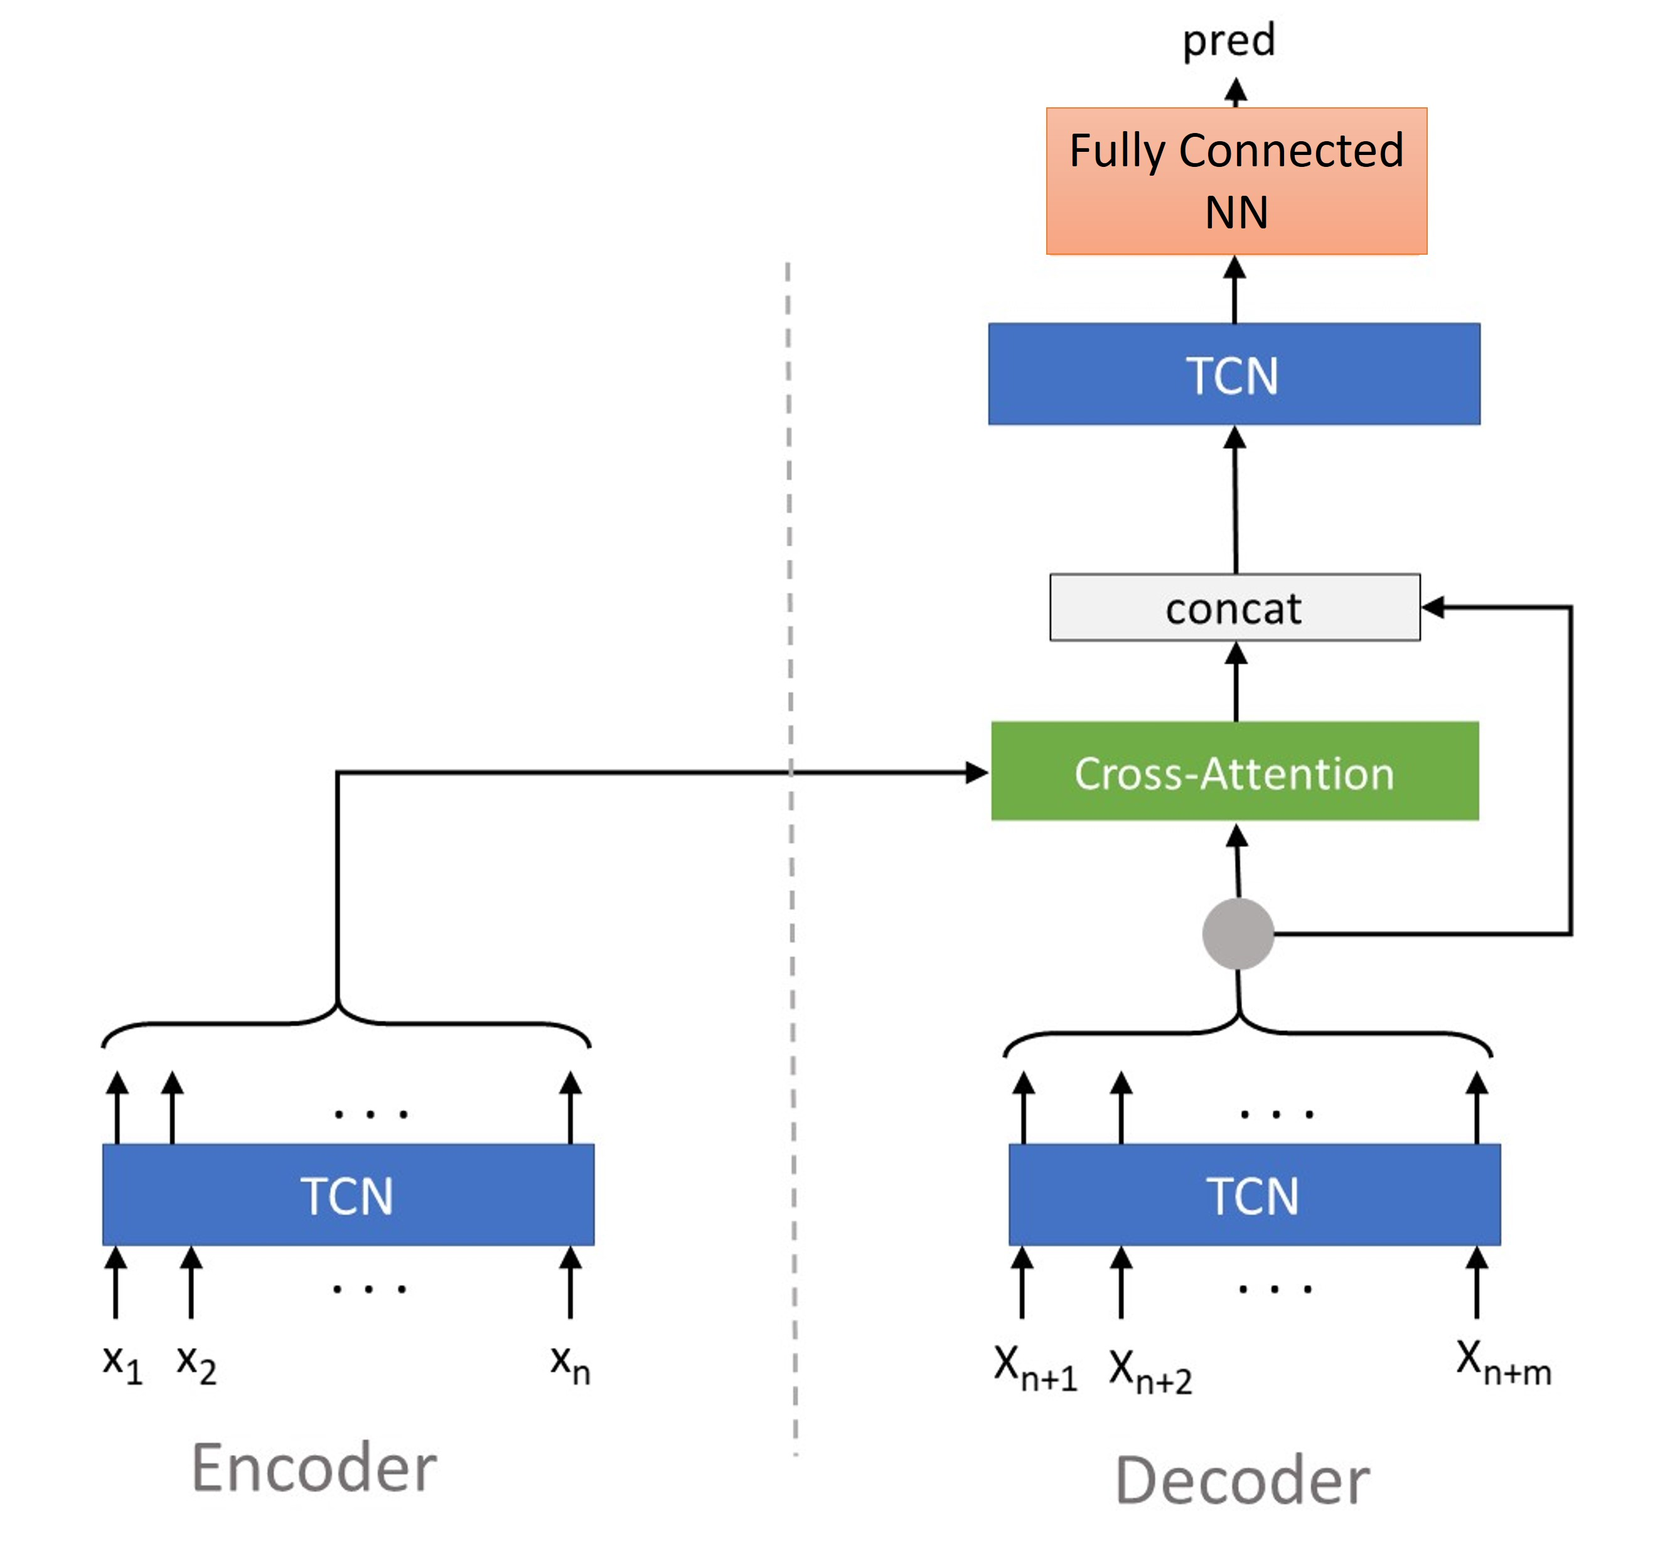
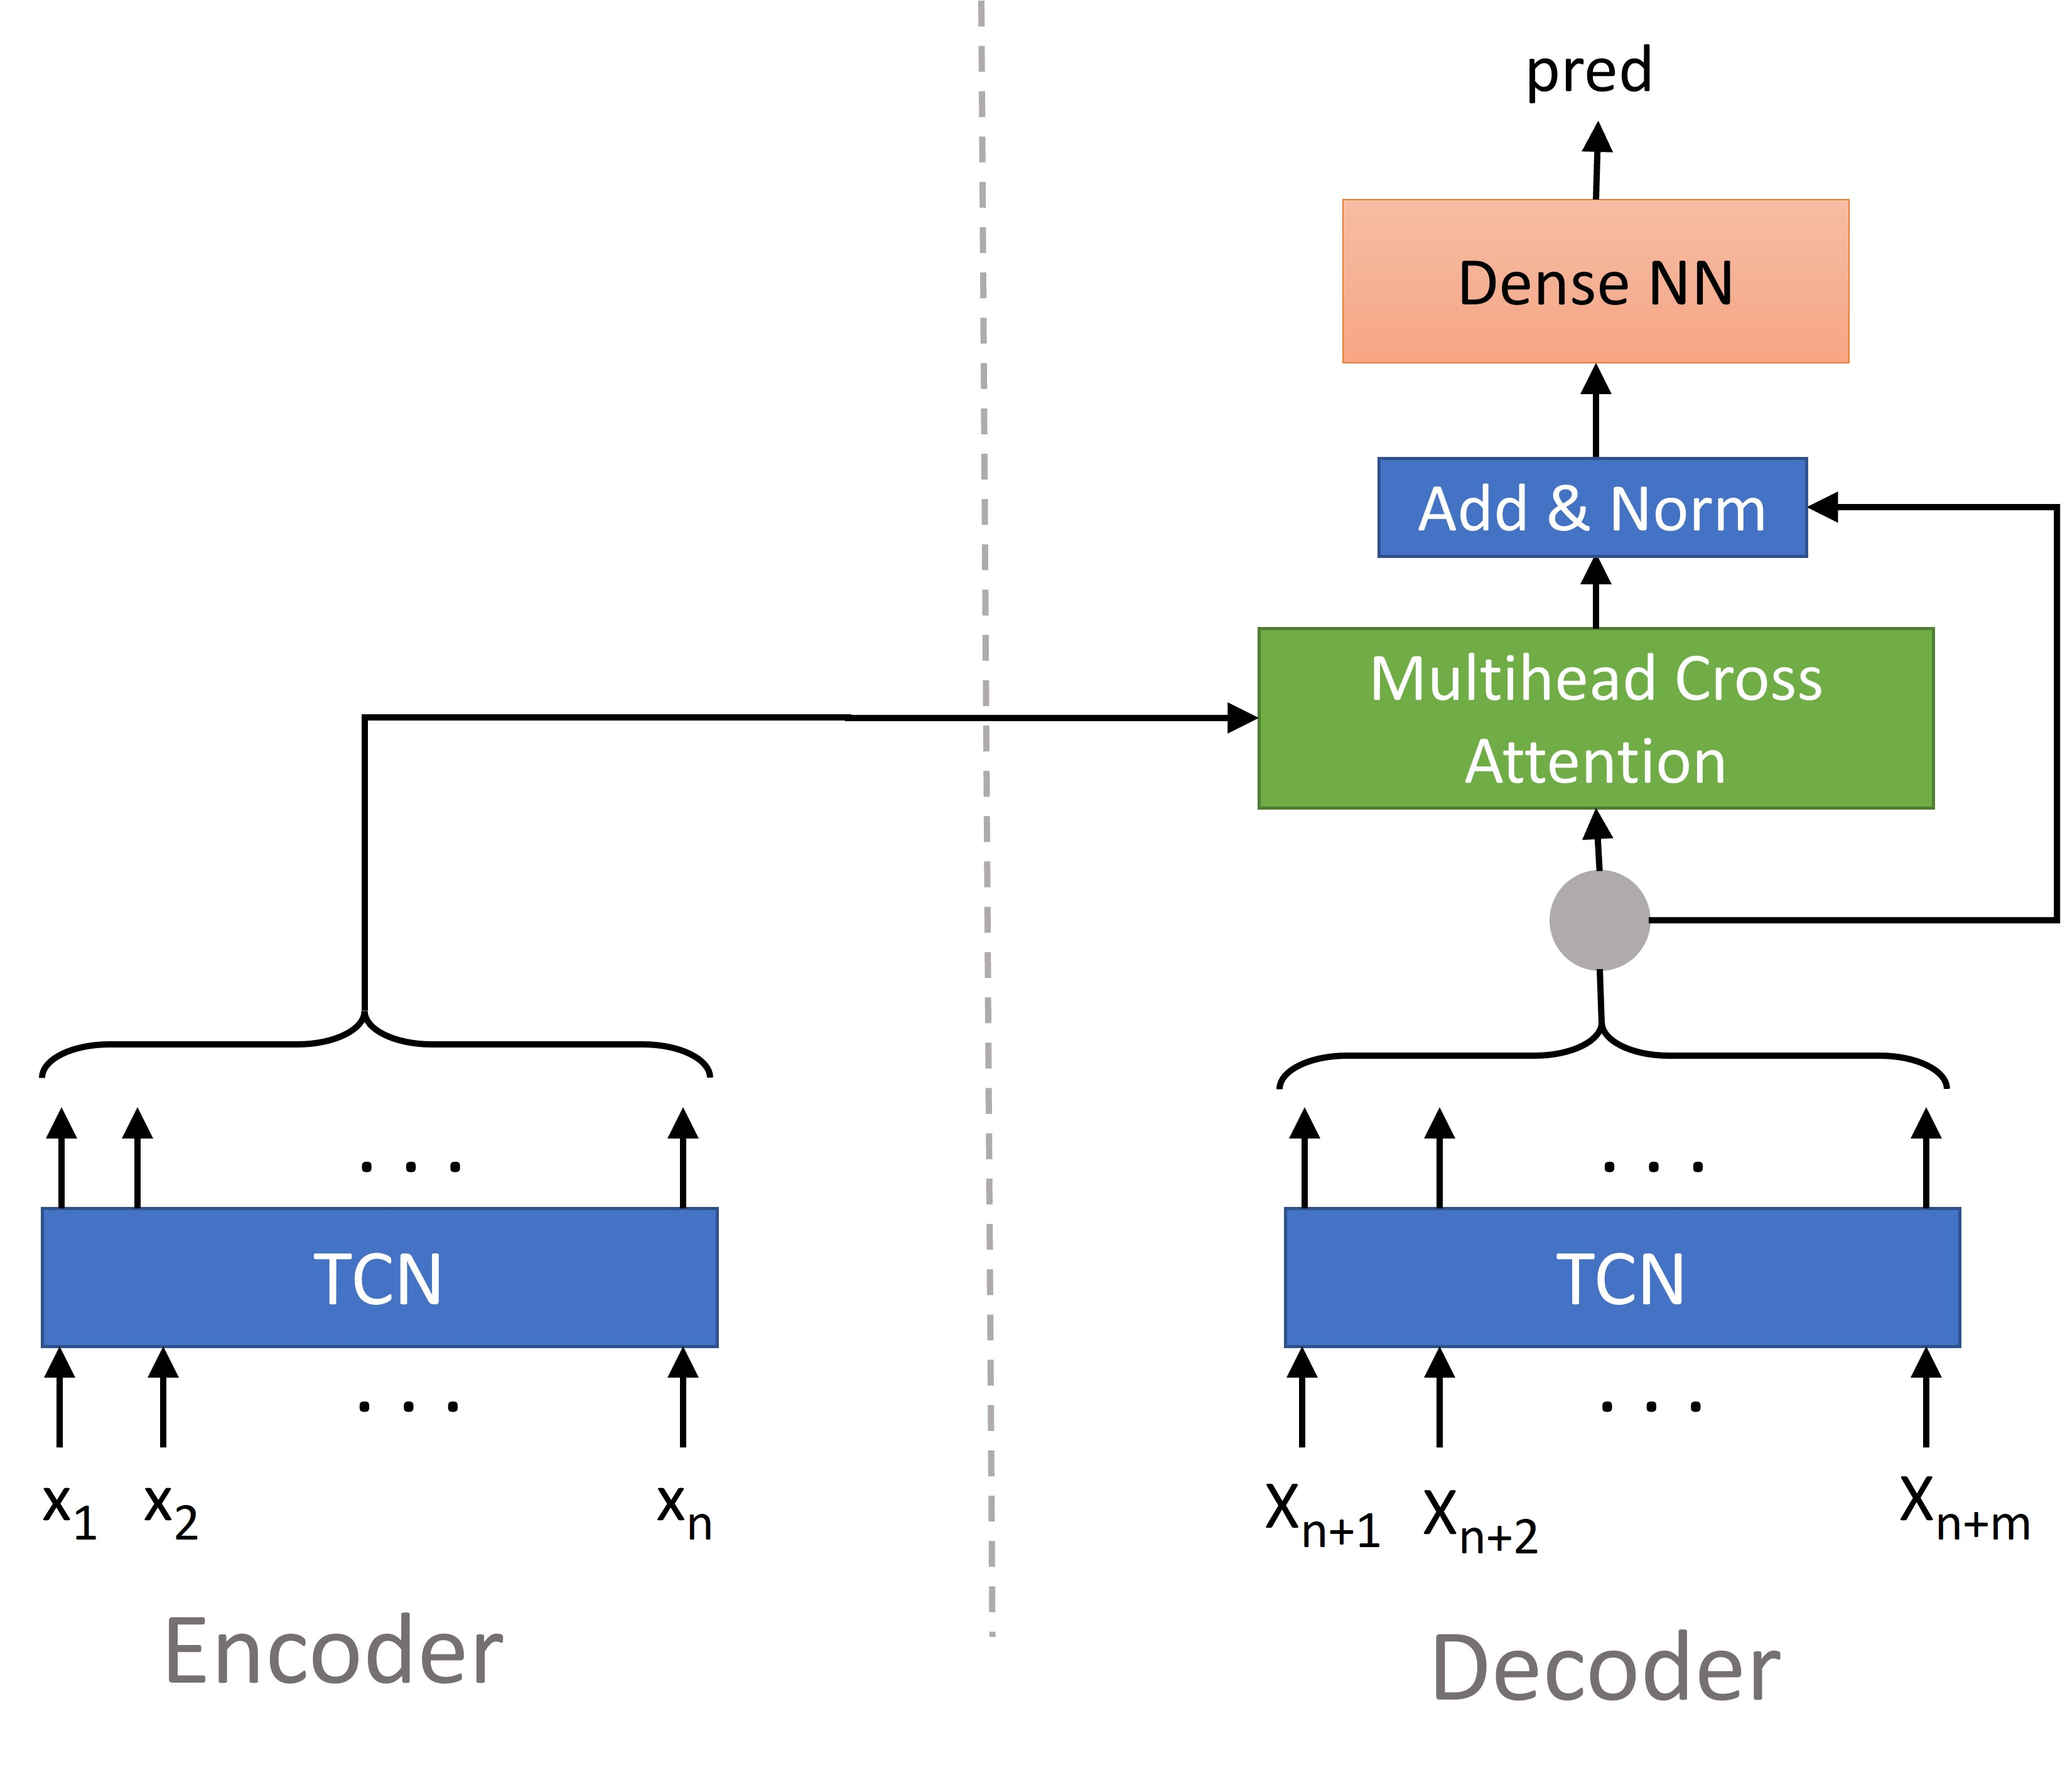
update images and README

diff --git a/README.md b/README.md
@@ -16,7 +16,8 @@ pip install tcn-sequence-models
 
 ### Models
 Two models exist:
-#### 1. TCN-TCN model. The structure of the TCN-TCN_Model can be seen below.
+#### 1. TCN-TCN model. 
+The structure of the TCN-TCN_Model can be seen below.
 
 
 There are two versions of this model, an autoregressive model and a 
@@ -37,19 +38,6 @@ the user provides. If the user does not provide any features for the decoder, a
 dummy feature is created with all 1s so that the decoder has some input. Without any 
 input the model would not work. This model is fast during training and inference.
 
-##### Encoder
-The encoder consists of a TCN block. 
-
-##### Decoder
-The Decoder architecture is as follows:  
-First a TCN stage is used to encoder the decoder input data.
-After that multi-head cross attention is applied the the TCN output and the
-encoder output.
-Then another TCN stage is applied. The input of this TCN stage is a
-concatenation of the output of the first Decoder-TCN and the output of the
-cross attention.
-The last stage is the prediction stage (a block of dense layers) that then
-makes the final prediction.
 
 ![Model plot](./images/TCN-TCN.jpg)
 
@@ -65,7 +53,7 @@ picture below shows 'causal' padding.
 ![TCN plot](./images/TCN.jpg)
 
 ### Inputs
-This model expects input sequences for the encoder and optionally for the decoder.
+The models expect input sequences for the encoder and optionally for the decoder.
 
 ### Examples
 For examples, please refer to the notebooks.
